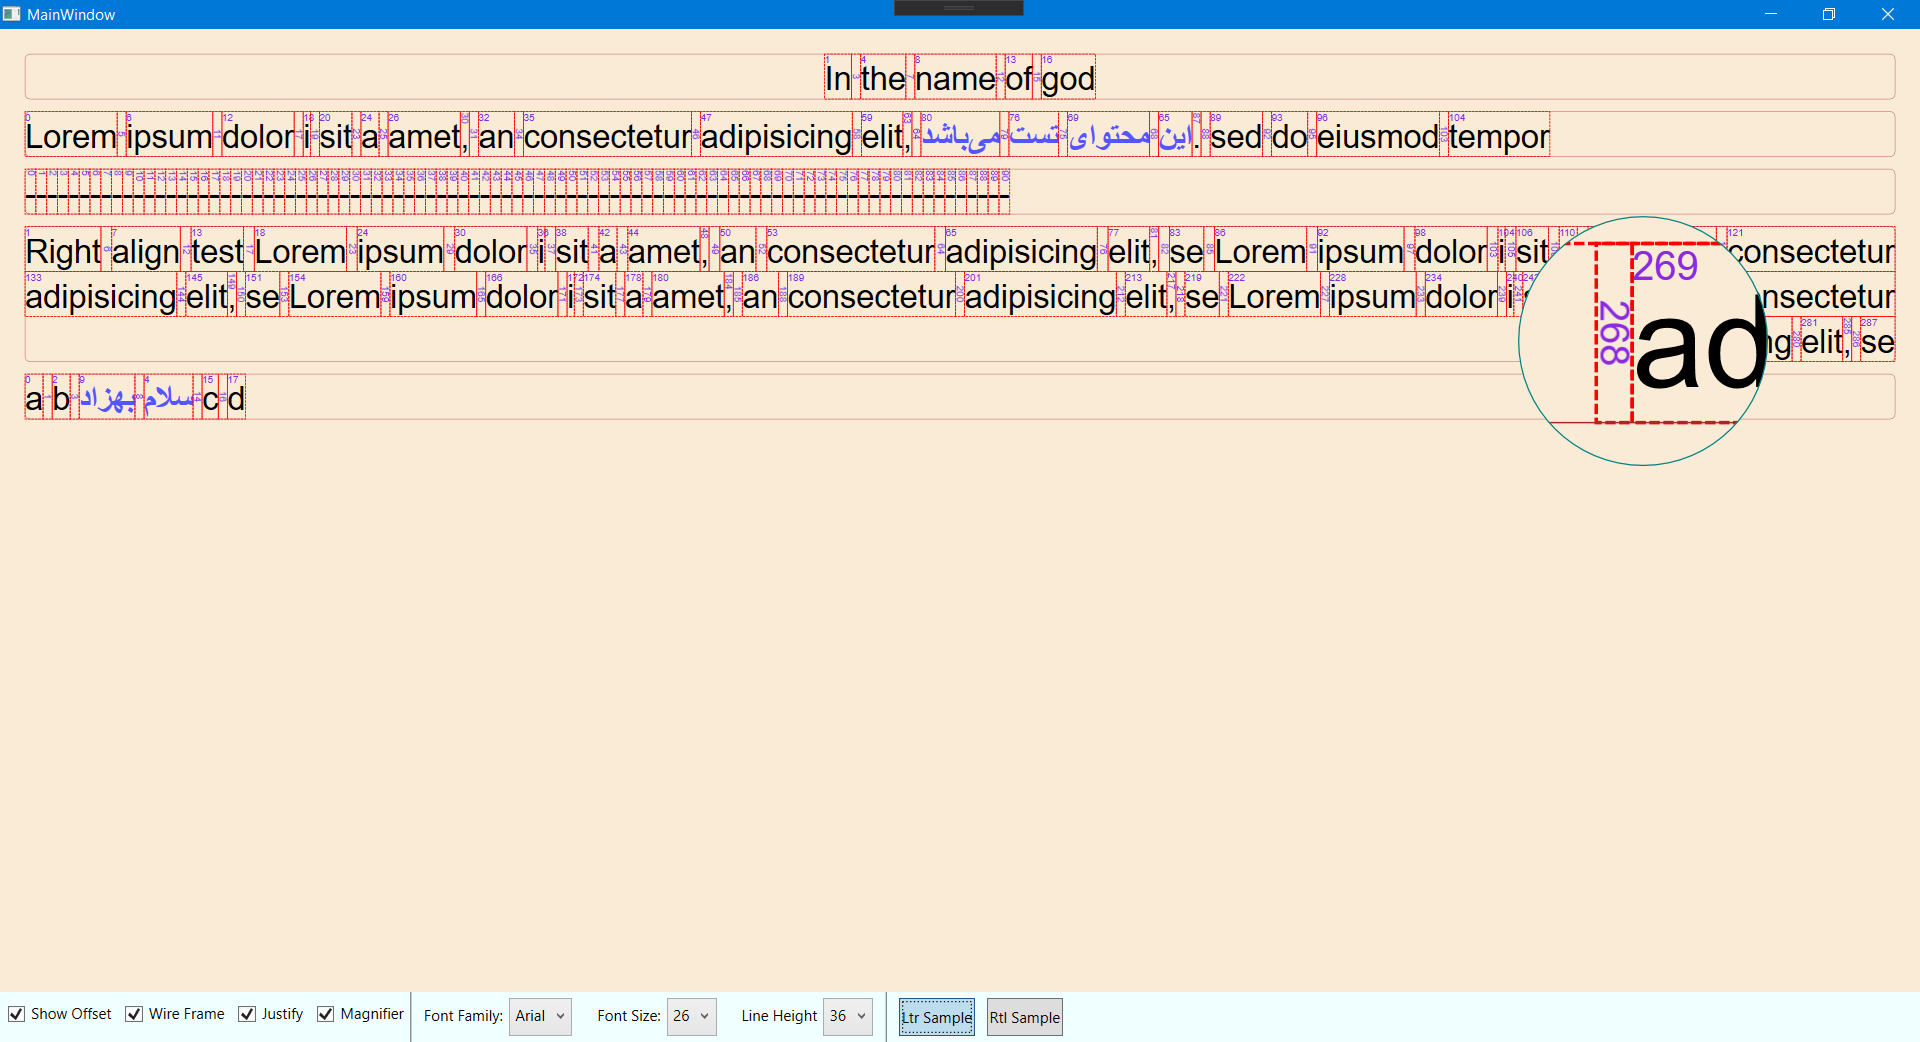
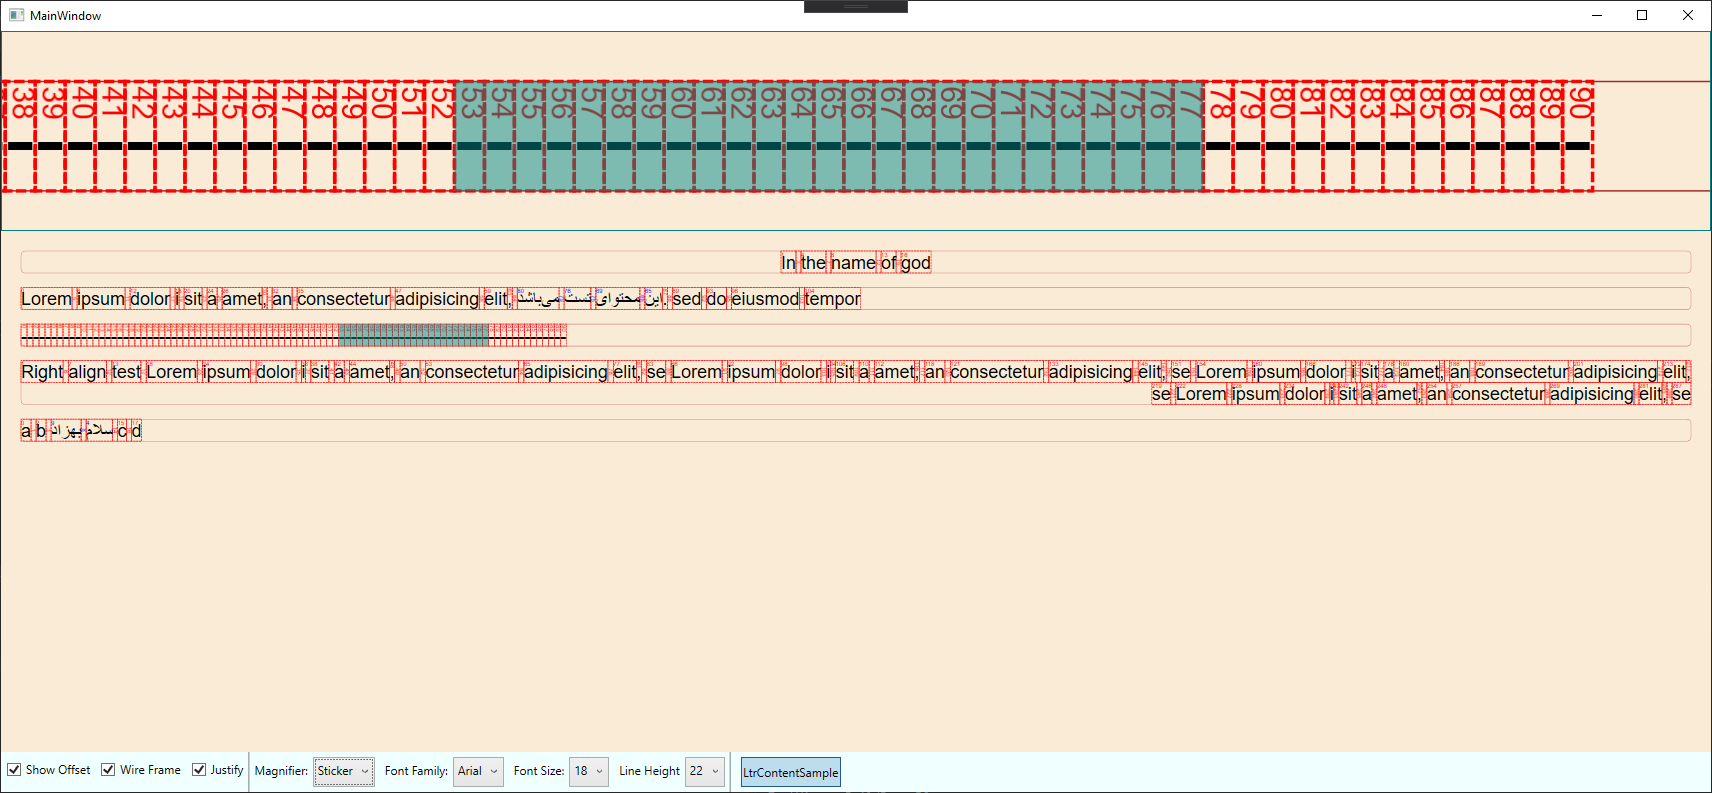
clean paragraph codes and update readme samples

Changed region(s): [[0.0, 0.0, 1.0, 0.5145], [0.0, 0.9382, 1.0, 1.0], [0.0, 0.5145, 0.0929, 0.575]]

diff --git a/src/TextViewer/TextViewer/Paragraph.cs b/src/TextViewer/TextViewer/Paragraph.cs
@@ -27,6 +27,20 @@ namespace TextViewer
 
 
 
+        private void AddWord(WordInfo w, Dictionary<StyleType, string> contentStyle)
+        {
+            w.Paragraph = this;
+
+            // set last word to inner word for remove space after word
+            if (Words.Count > 0)
+            {
+                w.PreviousWord = Words.Last();
+                w.PreviousWord.NextWord = w;
+            }
+            w.AddStyles(contentStyle);
+            Words.Add(w);
+        }
+
         /// <summary>
         /// Attach content to end of this paragraph by same styles
         /// </summary>
@@ -38,29 +52,6 @@ namespace TextViewer
             var wordBuffer = "";
             var offset = contentOffset;
 
-            void AddWord(WordInfo w)
-            {
-                w.Paragraph = this;
-
-                // set last word to inner word for remove space after word
-                if (Words.Count > 0)
-                {
-                    w.PreviousWord = Words.Last();
-                    w.PreviousWord.NextWord = w;
-                }
-                w.AddStyles(contentStyle);
-#if DEBUG
-                // Todo: Just for test
-                if (w.IsRtl != w.Paragraph.IsRtl)
-                {
-                    w.Styles.Add(StyleType.Color, "#5555FF");
-                    w.Styles.Add(StyleType.FontWeight, "bold");
-                }
-#endif
-                Words.Add(w);
-                wordBuffer = ""; // clear buffer
-            }
-
             for (var i = 0; i < content.Length; i++)
             {
                 var charPointer = content[i];
@@ -68,13 +59,14 @@ namespace TextViewer
                 if (charPointer == ' ')
                 {
                     if (wordBuffer.Length > 0)
-                        AddWord(new WordInfo(wordBuffer, offset, WordType.Normal, wordBuffer.IsRtl()));
+                        AddWord(new WordInfo(wordBuffer, offset, WordType.Normal, wordBuffer.IsRtl()), contentStyle);
+
+                    wordBuffer = "";
 
                     // add space char as word
                     // note: space.IsRtl will complete calculate after adding all words
                     var spaceIsRtl = IsRtl == Words.LastOrDefault()?.IsRtl;
-                    AddWord(new WordInfo(charPointer.ToString(), contentOffset + i,
-                        WordType.Space, spaceIsRtl));
+                    AddWord(new WordInfo(charPointer.ToString(), contentOffset + i, WordType.Space, spaceIsRtl), contentStyle);
 
                     // maybe there are exist multiple sequence space, so we set offset outside of the keeping word buffer.
                     offset = contentOffset + i + 1; // set next word offset
@@ -84,13 +76,15 @@ namespace TextViewer
                 if (WordHelper.InertChars.Contains(charPointer))
                 {
                     if (wordBuffer.Length > 0)
-                        AddWord(new WordInfo(wordBuffer, offset, WordType.Normal | WordType.Attached, wordBuffer.IsRtl()));
+                        AddWord(new WordInfo(wordBuffer, offset, WordType.Normal | WordType.Attached, wordBuffer.IsRtl()), contentStyle);
+
+                    wordBuffer = "";
 
                     // add inert char as word
                     var isInnerWord = i + 1 < content.Length && content[i + 1] != ' ';
                     AddWord(new WordInfo(charPointer.ToString(), contentOffset + i,
                             isInnerWord ? WordType.Attached | WordType.InertChar : WordType.InertChar,
-                            charPointer.IsRtl() || IsRtl));
+                            charPointer.IsRtl() || IsRtl), contentStyle);
 
                     offset = contentOffset + i + 1; // set next word offset
                     continue;
@@ -102,9 +96,9 @@ namespace TextViewer
             //
             // keep last word from buffer
             if (wordBuffer.Length > 0)
-                AddWord(new WordInfo(wordBuffer, offset, WordType.Normal, wordBuffer.IsRtl()));
+                AddWord(new WordInfo(wordBuffer, offset, WordType.Normal, wordBuffer.IsRtl()), contentStyle);
             //
-            // calculate all space rtl from last word to first word
+            // calculate all spaces rtl from last word to first word
             foreach (var space in Words.Where(w => w.Type.HasFlag(WordType.Space)).Reverse())
             {
                 //  Paragraph.IsRtl  | Word.IsRtl  | Space.IsRtl 

diff --git a/src/TextViewer/TextViewer.Test/ParagraphTest.cs b/src/TextViewer/TextViewer.Test/ParagraphTest.cs
@@ -14,8 +14,8 @@ namespace TextViewer.Test
         [TestInitialize]
         public void Setup()
         {
-            _rtlContent = "این محتوا برای تست میباشد. این content برای تست میباشد. this content is for testing. این متن تست پاراگراف میباشد.";
-            _ltrContent = "This is the test content, for test paragraph and text parsing. این متن is for testing.";
+            _rtlContent = "این محتوا برای تست میباشد. این content برای تست میباشد. this content is for testing. این متن تست پاراگراف میباشد";
+            _ltrContent = "This is the test content, for test paragraph and text parsing. این متن is for testing";
             _rtlWords = _rtlContent.Split(' ');
             _ltrWords = _ltrContent.Split(' ');
         }
